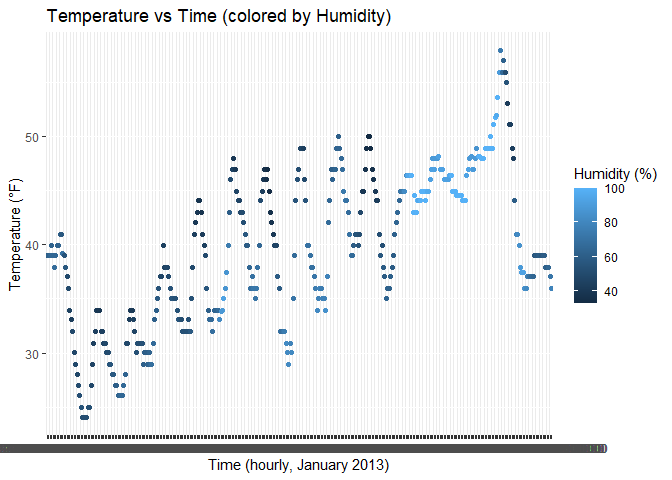
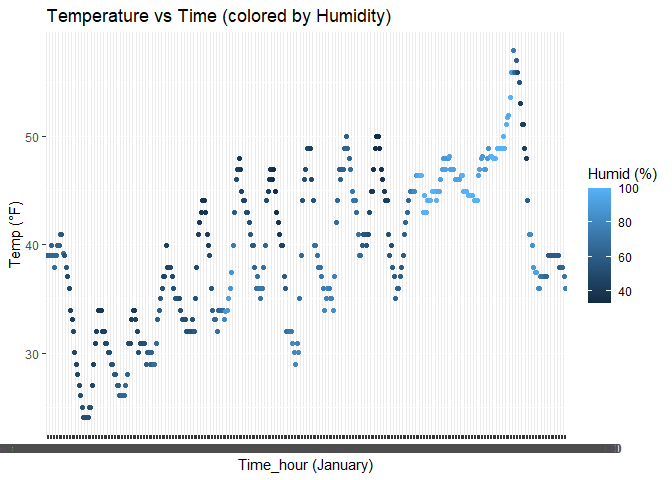
Final version

diff --git a/p8105_hw1_th3147.md b/p8105_hw1_th3147.md
@@ -61,9 +61,9 @@ early_january_weather$time_hour <- gsub("一月", "1", early_january_weather$tim
 ggplot(early_january_weather, aes(x = time_hour, y = temp, color = humid)) +
   geom_point() +
   labs(
-    x = "Time (hourly, January 2013)",
-    y = "Temperature (°F)",
-    color = "Humidity (%)",
+    x = "Time_hour (January)",
+    y = "Temp (°F)",
+    color = "Humid (%)",
     title = "Temperature vs Time (colored by Humidity)"
   )
 ```
@@ -152,13 +152,13 @@ mean(pull(my_table, Factorvec))
 
     ## [1] NA
 
-      * NormalSample will work because this variable is a numeric vector.
+- NormalSample will work because this variable is a numeric vector.
 
-      * greaterzero will work because R treats TRUE and FALSE as 1 and 0.
+- greaterzero will work because R treats TRUE and FALSE as 1 and 0.
 
-      * Charavec will not work because it is a character vector.
+- Charavec will not work because it is a character vector.
 
-      * Factorvec will not work because it is a factor vector.
+- Factorvec will not work because it is a factor vector.
 
 3.  Convert the variable
 
